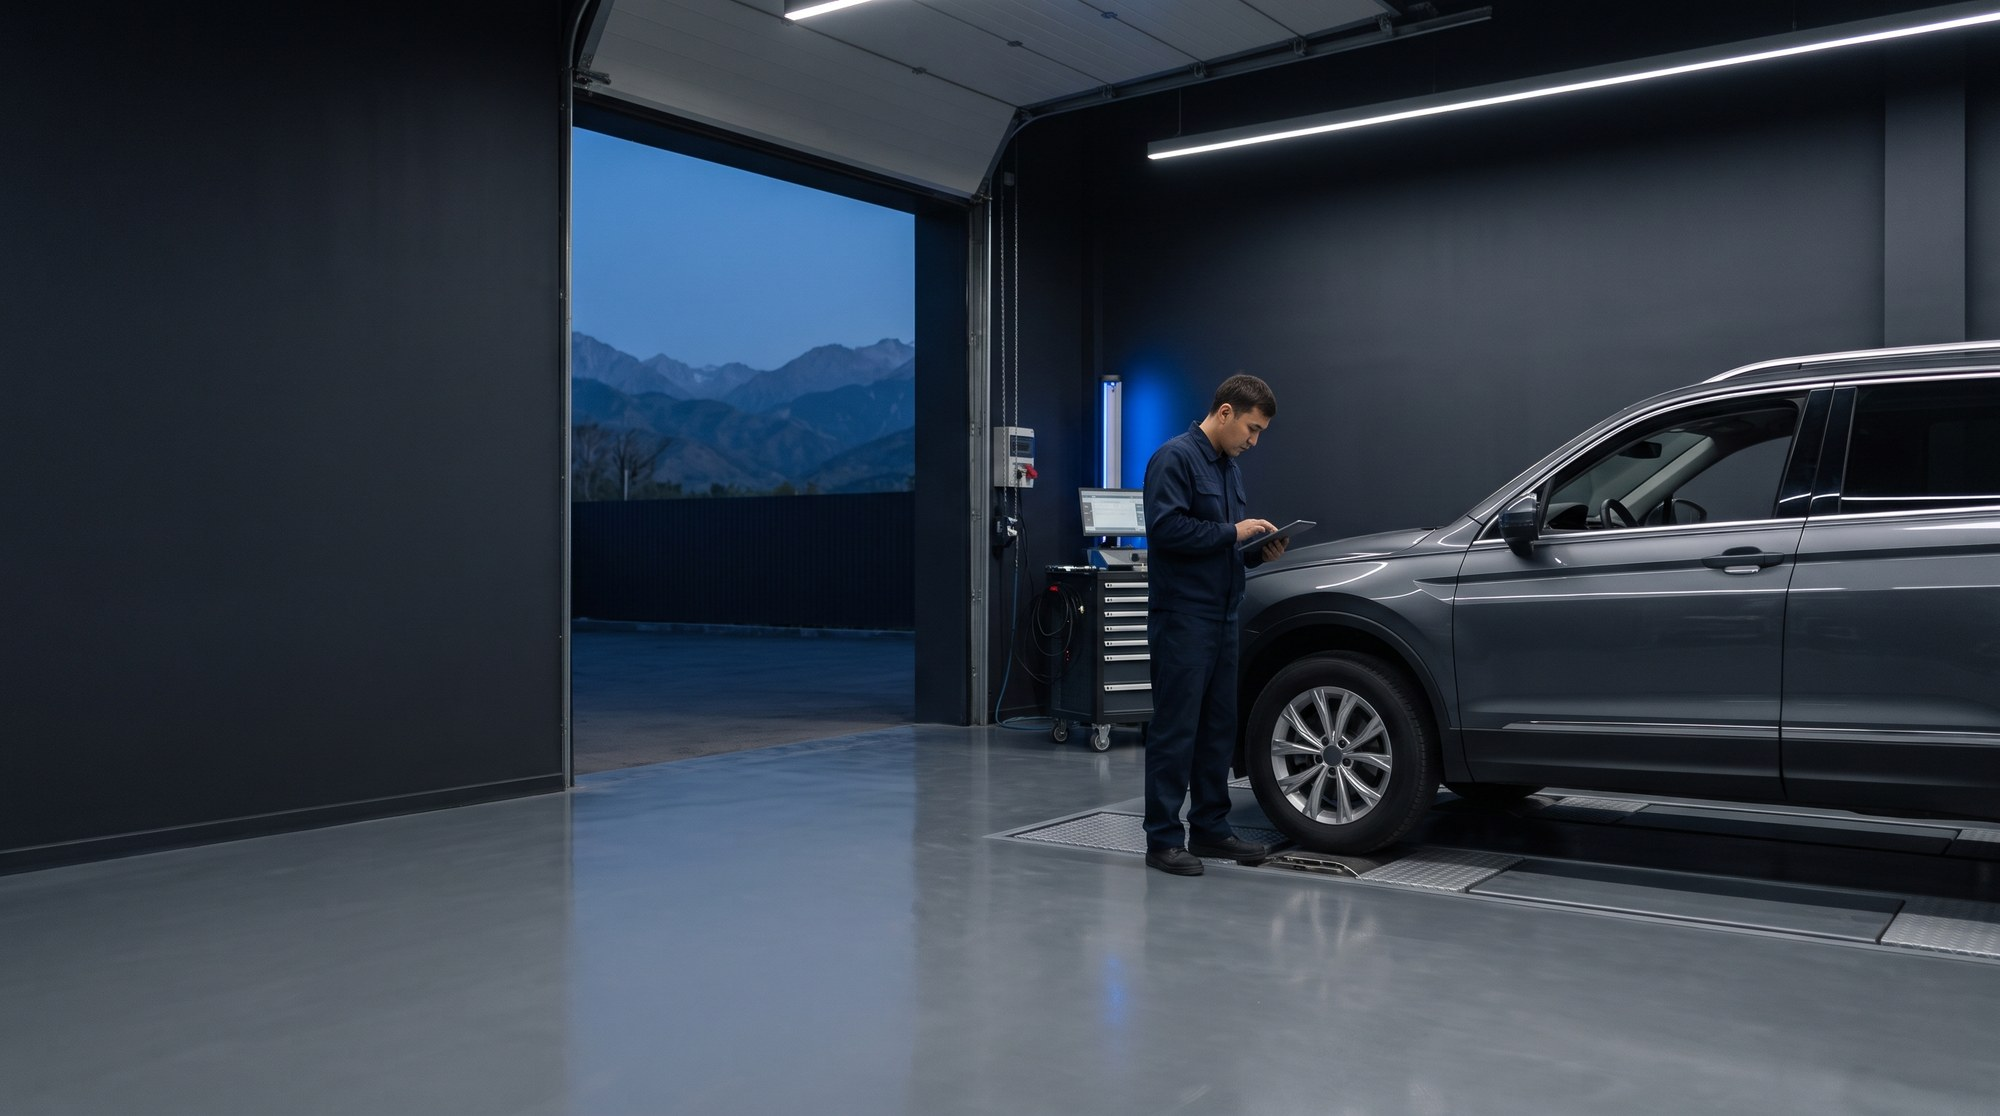
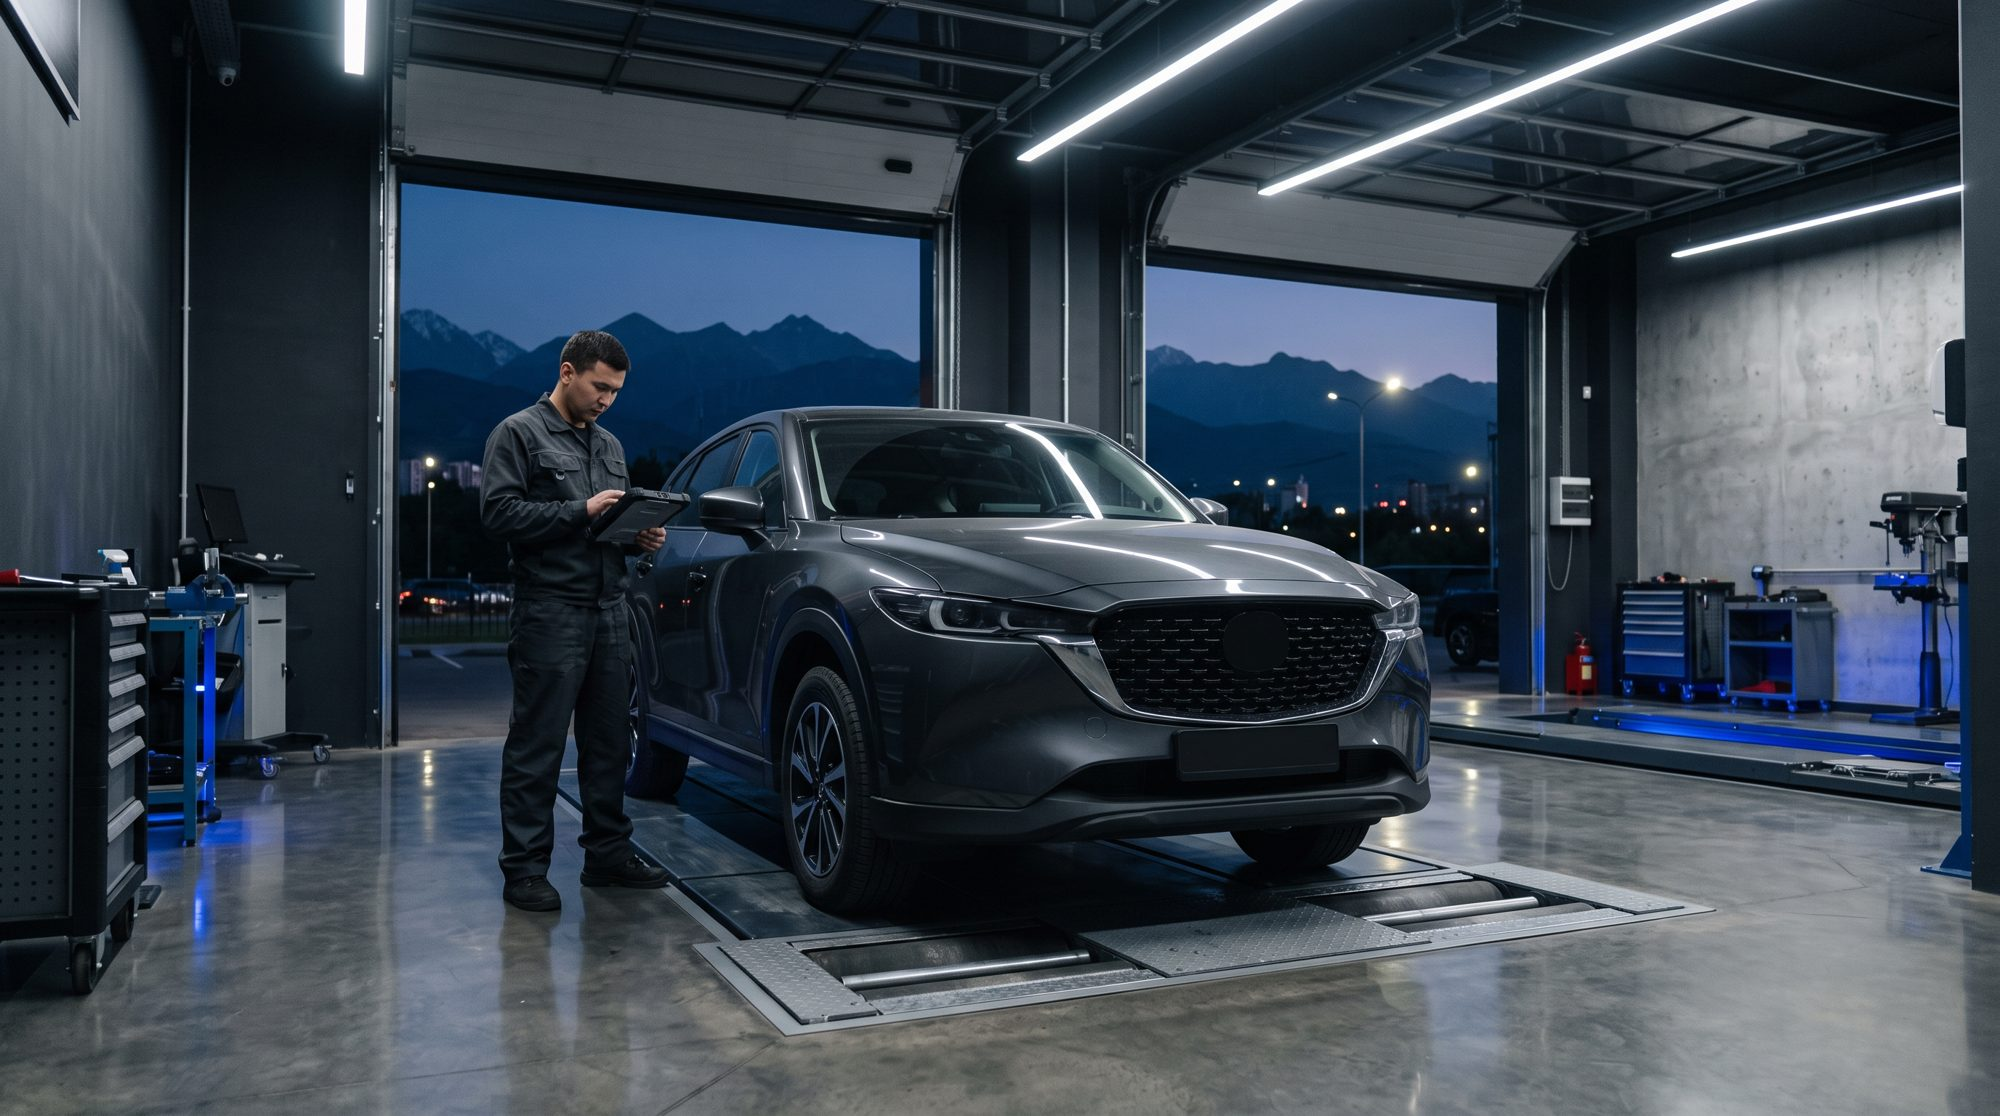
Back to the original board design and photos; live sensor-signal animation on the hero and stand charts
Claude-Session: https://claude.ai/code/session_01MQXXfW226b3wpHTdnoJWoA

diff --git a/build.py b/build.py
@@ -422,54 +422,6 @@ def board_root(soup):
     return soup
 
 
-# ---------- calm layout ----------
-# Minimal look without cutting content: one background, text instead of boxed cards, no plates over photos.
-LIGHT_TO_DARK = [('#0B1220', '#EEF2F7'), ('#4A5565', '#8A96A6'), ('#DDE3EA', 'rgba(255,255,255,.1)'),
-                 ('#1C2433', '#D5DCE5'), ('#151B24', '#EEF2F7')]
-
-
-def _set(st, prop, val):
-    st = re.sub(r'(^|;)\s*' + prop + r'\s*:[^;]*', r'\1', st).strip('; ')
-    return (st + '; ' if st else '') + f'{prop}: {val}'
-
-
-def calm(soup, name):
-    for el in soup.find_all(style=True):
-        st = el['style']
-        if re.search(r'background:\s*#0E131A', st):  # alternating band -> base
-            el['style'] = re.sub(r'background:\s*#0E131A', 'background: transparent', st)
-        elif re.search(r'background:\s*#F3F5F8', st):  # light band -> dark, recolour its contents
-            el['style'] = re.sub(r'background:\s*#F3F5F8', 'background: transparent', st)
-            for d in [el] + el.find_all(style=True):
-                t = d['style']
-                for a_, b_ in LIGHT_TO_DARK:
-                    t = t.replace(a_, b_)
-                t = re.sub(r'background:\s*#FFFFFF', 'background: transparent', t)
-                d['style'] = t
-            for btn in el.select('.btn-d'):
-                btn['class'] = [c if c != 'btn-d' else 'btn-p' for c in btn['class']]
-    # text cards: drop the box, keep a hairline on top
-    for el in soup.find_all(style=re.compile(r'background:\s*#11161E|border:\s*1px solid rgba\(255,255,255')):
-        st = el['style']
-        if 'border-radius' not in st or el.find('img') or el.find('iframe') or el.name in ('img', 'button', 'span'):
-            continue
-        if not re.search(r'border:\s*1px solid', st) and '#11161E' not in st:
-            continue
-        if el.find(string=re.compile(r'Здесь будет живая карта')):
-            continue
-        st = re.sub(r'background:\s*#11161E', 'background: transparent', st)
-        st = _set(st, 'border', 'none')
-        st = _set(st, 'border-top', '1px solid rgba(255,255,255,.1)')
-        st = _set(st, 'border-radius', '0')
-        st = re.sub(r'padding:\s*([0-9]+px)(\s+[0-9]+px)?(\s+[0-9]+px)?(\s+[0-9]+px)?',
-                    lambda m: f'padding: {m.group(1)} 0 0', st)
-        el['style'] = st
-    # plates over photos (hero signal card)
-    for el in soup.find_all(style=re.compile(r'position:\s*absolute')):
-        if el.find('svg') and el.find(string=re.compile(r'Стойка стабилизатора')):
-            el.decompose()
-
-
 def short_desc(text, limit=130):
     """Meta description: whole sentences up to ~130 chars, so price and address still fit in ~160."""
     out = ''
@@ -486,7 +438,9 @@ def build_board(name, lang, scope, desktop, eager):
     css, body, title = parse_board(name)
     soup = BeautifulSoup(body, 'html.parser')
     strip_chrome(soup, not desktop)
-    calm(soup, name)
+    for svg in soup.find_all('svg'):  # sensor signal charts get a live animation (see JS)
+        if svg.find('polyline', stroke='#5AAEF2') and svg.find('rect', attrs={'stroke-dasharray': True}):
+            svg['class'] = svg.get('class', []) + ['sig']
     if not desktop:
         # one <h1> per page: the desktop board carries it, the phone copy is a styled paragraph
         for h in soup.find_all('h1'):
@@ -626,10 +580,6 @@ Header always set X-Frame-Options "SAMEORIGIN"
 
 BASE_CSS = r'''
 .dnav a,.dh-tel,.hbtn{white-space:nowrap}
-img[src*="/vt-00-"]{object-position:72% 50%}
-.dv .prow{color:#EEF2F7!important;border-bottom-color:rgba(255,255,255,.1)!important}
-.dv .srow{color:#EEF2F7!important;border-bottom-color:rgba(255,255,255,.1)!important}.dv .srow:hover{color:#5AAEF2!important}
-.dv .srow span[style*='#8A96A6']{color:#8A96A6}
 a.lnk,.ft nav a,.crumbs a,.ft a{position:relative}
 a.lnk::after,.ft nav a::after,.crumbs a::after,.ft a::after{content:'';position:absolute;inset:-13px -6px}
 html[lang=kk] .dv h1{font-size:clamp(34px,4.4vw,60px)!important;overflow-wrap:break-word}
@@ -720,6 +670,18 @@ var S=window.VT_SYM;if(S){
  })})}
 d.querySelectorAll('[data-rail]').forEach(function(r){var c=d.getElementById(r.dataset.rail);if(!c)return;var n=r.children.length;
  r.addEventListener('scroll',function(){var w=r.children[0].getBoundingClientRect().width+12;c.textContent=Math.min(n,Math.round(r.scrollLeft/w)+1)+' / '+n},{passive:true})});
+// live sensor signal: the baseline drifts, the knock inside the dashed box pulses; static chart stays as the resting frame
+if(!matchMedia('(prefers-reduced-motion: reduce)').matches&&'IntersectionObserver' in window){
+ var sigs=[].slice.call(d.querySelectorAll('svg.sig')).map(function(svg){var vb=svg.viewBox.baseVal,r=svg.querySelector('rect[stroke-dasharray]'),
+  rx=+r.getAttribute('x'),rw=+r.getAttribute('width'),ry=+r.getAttribute('y'),rh=+r.getAttribute('height');
+  return {pl:svg.querySelector('polyline'),W:vb.width,H:vb.height,c:rx+rw/2,w:rw/2.6,amp:rh/2-2,mid:ry+rh/2,on:false,svg:svg}});
+ var io=new IntersectionObserver(function(es){es.forEach(function(e){sigs.forEach(function(s){if(s.svg===e.target)s.on=e.isIntersecting})})});
+ sigs.forEach(function(s){io.observe(s.svg)});
+ var t=0;(function f(){t+=.045;sigs.forEach(function(s){if(!s.on)return;var p=[],st=s.W/240,bump=.55+.45*Math.pow(Math.max(0,Math.sin(t*1.3)),3);
+  for(var x=0;x<=s.W;x+=st){var g=Math.exp(-Math.pow((x-s.c)/s.w,2));
+   var y=s.mid+(Math.sin(x/s.W*38+t*2)*.10+Math.sin(x/s.W*91-t*3.1)*.05)*s.amp*(1-g)+Math.sin(x/s.w*7.5+t*9)*s.amp*.92*g*bump;
+   p.push(x.toFixed(1)+','+y.toFixed(1))}s.pl.setAttribute('points',p.join(' '))});requestAnimationFrame(f)})();
+}
 })();
 '''
 
